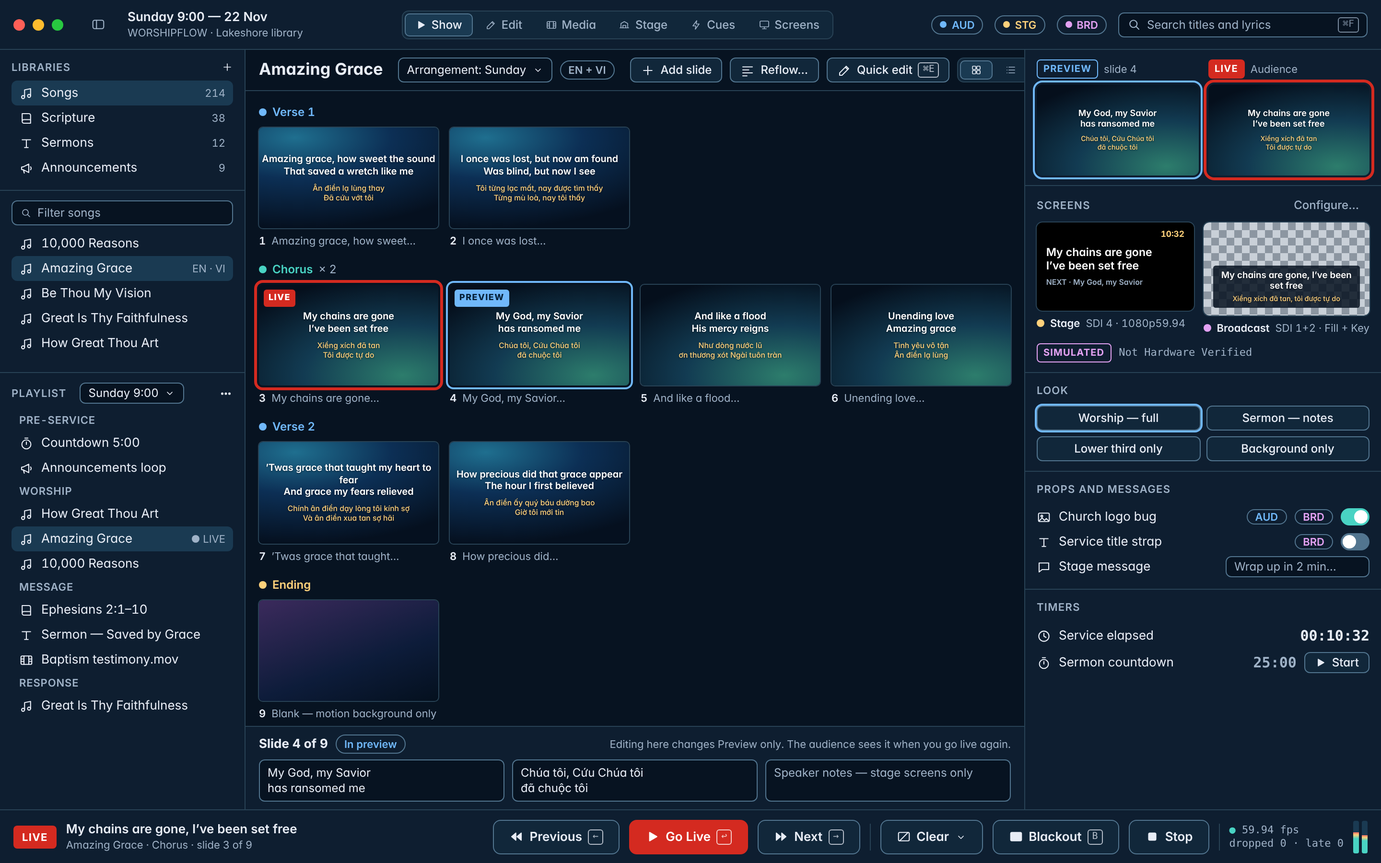
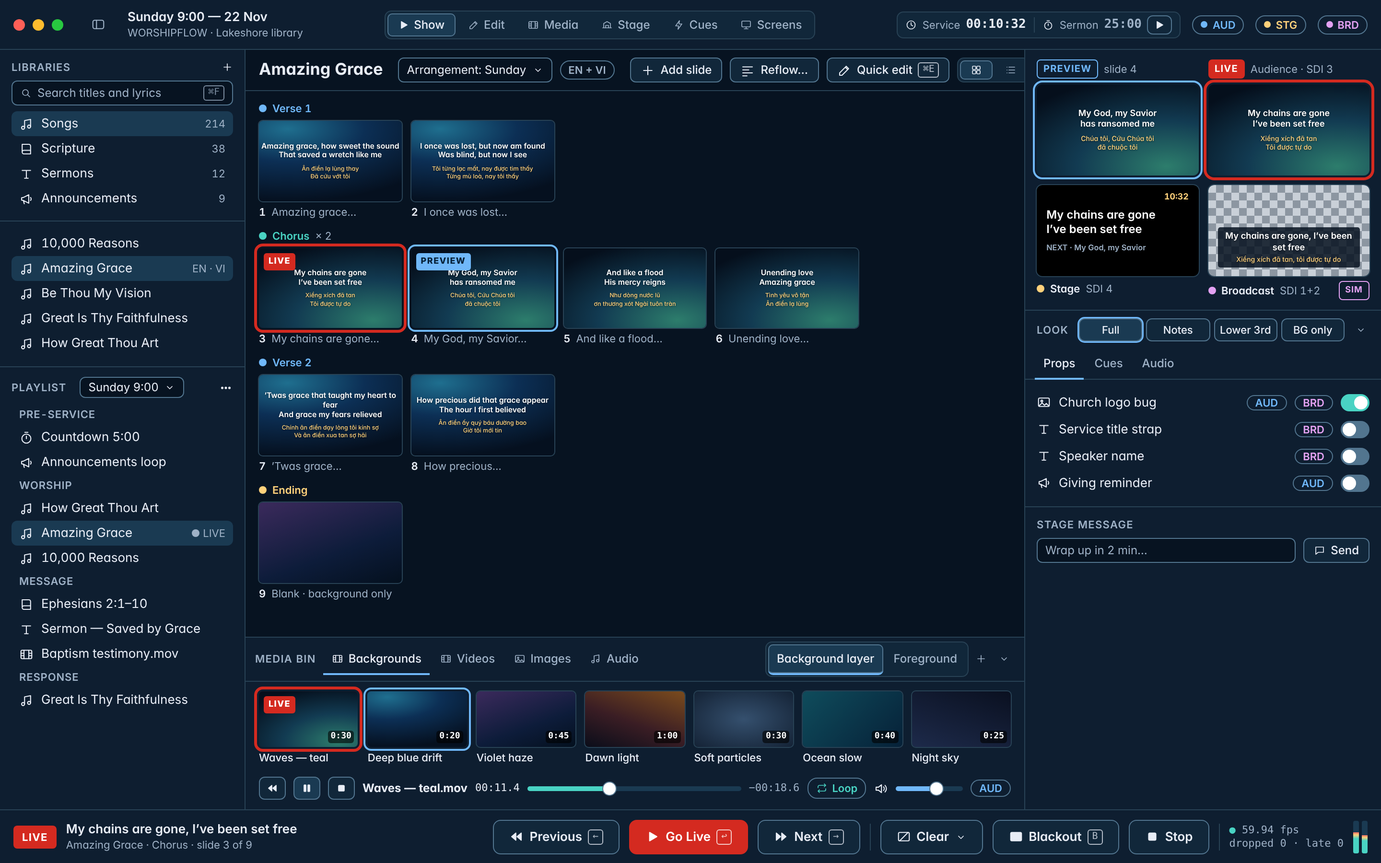
docs(UI): design revision 2 from the design session: media dock and controller in Show, search in the sidebar, timers in the toolbar, tabbed inspector, quick edit tab, stage message

diff --git a/docs/UI/mockups/01-operator-show.html b/docs/UI/mockups/01-operator-show.html
@@ -1,19 +1,39 @@
 <!doctype html><meta charset="utf-8"><title>WORSHIPFLOW — Show</title><link rel="stylesheet" href="ui.css"><script src="ui.js"></script>
 <style>.body{display:grid;grid-template-columns:256px 1fr 372px;min-height:0}
-.grid{display:grid;grid-template-columns:repeat(4,1fr);gap:14px 12px}
-.sl{font-size:12px;font-weight:600;display:flex;align-items:center;gap:6px;margin:14px 0 8px}.sl:first-child{margin-top:0}
+.grid{display:grid;grid-template-columns:repeat(5,1fr);gap:0 10px}
+.sl{font-size:11px;font-weight:600;display:flex;align-items:center;gap:6px;margin:0 0 5px}.grid+.sl{margin-top:9px}
 .mon .thumb{border-radius:6px}.mh{display:flex;align-items:center;gap:6px;margin-bottom:6px}
-.look{display:grid;grid-template-columns:1fr 1fr;gap:6px}.look .btn{justify-content:center}
+.dock{border-top:1px solid var(--border);background:var(--surface)}.mrow{display:grid;grid-template-columns:repeat(7,1fr);gap:10px;padding:10px 14px 6px}
+.m{background-size:cover}.dur{position:absolute;right:4px;bottom:4px;font:600 9px/13px "SF Mono",ui-monospace,monospace;background:rgba(0,0,0,.6);padding:0 3px;border-radius:3px}
+.scrub{height:5px;border-radius:3px;background:var(--surface-3);position:relative;flex:1}.scrub i{position:absolute;left:0;top:0;bottom:0;width:38%;background:var(--cyan);border-radius:3px}.scrub u{position:absolute;left:38%;top:-4px;width:13px;height:13px;border-radius:50%;background:#fff;margin-left:-6px;box-shadow:0 0 0 1px var(--border-strong)}
+.ctl{display:flex;align-items:center;gap:8px;padding:6px 14px 10px}.ib{height:24px;width:28px;padding:0;justify-content:center}
+.lk{display:flex;gap:4px}.lk .btn{flex:1;justify-content:center;padding:0 4px;height:24px;font-size:11px}
+.prow{display:flex;align-items:center;gap:8px;height:28px}
 </style><body><div class="win" id="w"></div><script>
+const ED=new URLSearchParams(location.search).get('edit')==='1';
+const G=['radial-gradient(110% 100% at 80% 90%,#2d7d6c,#123b52 50%,#050f1c)','radial-gradient(120% 90% at 20% 10%,#1f6f8f,#0c2f55 45%,#05101f)','linear-gradient(160deg,#3b2a5c,#0d1c3a 60%,#04101e)','linear-gradient(200deg,#7a4b1d,#3a1d24 55%,#0a0d1a)','radial-gradient(90% 90% at 50% 50%,#35506e,#0b1626)','linear-gradient(135deg,#0f4c5c,#062138)','linear-gradient(20deg,#1d2a4a,#0a1020)'];
 const sec=(c,n,r)=>`<div class="sl"><span class="dot" style="color:var(--${c})"></span><span style="color:var(--${c})">${n}</span><span class="c-muted" style="font-weight:400">${r||''}</span></div>`;
-const cell=(n,a,b,cls,tag,cap)=>`<div>${thumb(a,b,cls,tag)}<div class="cap"><b>${n}</b>${cap}</div></div>`;
+const cell=(n,a,b,cls,tag,cap)=>`<div>${thumb(a,b,cls,tag)}<div class="cap" style="margin-top:3px"><b>${n}</b>${cap}</div></div>`;
+const med=(n,d,g,cls='',tag='')=>`<div><div class="thumb m ${cls}" style="background:${G[g]}">${tag}${d?`<span class="dur">${d}</span>`:''}</div><div class="cap" style="margin-top:3px"><b style="overflow:hidden;text-overflow:ellipsis;font-weight:500">${n}</b></div></div>`;
 const LIVE='<span class="tag">LIVE</span>',PV='<span class="tag pv">PREVIEW</span>';
+const propsTab=`<div class="sec">
+  <div class="prow">${I('image')}Church logo bug<span class="grow"></span><span class="pill c-aud" style="height:16px">AUD</span><span class="pill c-brd" style="height:16px">BRD</span><span class="tgl on"></span></div>
+  <div class="prow">${I('text')}Service title strap<span class="grow"></span><span class="pill c-brd" style="height:16px">BRD</span><span class="tgl"></span></div>
+  <div class="prow">${I('text')}Speaker name<span class="grow"></span><span class="pill c-brd" style="height:16px">BRD</span><span class="tgl"></span></div>
+  <div class="prow">${I('mega')}Giving reminder<span class="grow"></span><span class="pill c-aud" style="height:16px">AUD</span><span class="tgl"></span></div></div>
+ <div class="sec grow"><div class="h" style="margin-bottom:6px">Stage message</div><div class="row"><span class="field ph grow">Wrap up in 2 min…</span><span class="btn">${I('msg','s')}Send</span></div></div>`;
+const editTab=`<div class="sec grow"><div class="row" style="margin-bottom:8px"><b>Slide 4 of 9</b><span class="c-muted" style="font-size:11px">Chorus</span><span class="grow"></span><span class="pill c-aud" style="height:18px">Preview only</span></div>
+  <div class="h" style="margin-bottom:4px">English</div><div class="field" style="height:46px;align-items:flex-start;padding-top:5px;border-color:var(--sel);box-shadow:0 0 0 2px color-mix(in srgb,var(--sel) 35%,transparent)">My God, my Savior<br>has ransomed me</div>
+  <div class="h" style="margin:8px 0 4px">Tiếng Việt</div><div class="field" style="height:46px;align-items:flex-start;padding-top:5px">Chúa tôi, Cứu Chúa tôi<br>đã chuộc tôi</div>
+  <div class="h" style="margin:8px 0 4px">Speaker notes · stage only</div><div class="field ph" style="height:30px">None</div>
+  <div class="row" style="margin-top:10px"><span class="c-muted" style="font-size:11px">Saved 2 s ago · live at next trigger</span><span class="grow"></span><span class="btn">Done <span class="kbd">esc</span></span></div></div>`;
 w.innerHTML=toolbar('Show')+`<div class="body">
 <div class="side">
  <div class="sec"><div class="row" style="margin-bottom:6px"><span class="h">Libraries</span><span class="grow"></span>${I('plus','s')}</div>
+  <div class="field ph" style="margin-bottom:6px">${I('search','s')}Search titles and lyrics<span class="car kbd">⌘F</span></div>
   <div class="li on">${I('music')}Songs<span class="n">214</span></div><div class="li">${I('book')}Scripture<span class="n">38</span></div>
   <div class="li">${I('text')}Sermons<span class="n">12</span></div><div class="li">${I('mega')}Announcements<span class="n">9</span></div></div>
- <div class="sec" style="flex:0 0 190px;overflow:hidden"><div class="field ph" style="margin-bottom:6px">${I('search','s')}Filter songs</div>
+ <div class="sec" style="flex:0 0 152px;overflow:hidden">
   <div class="li">${I('music')}10,000 Reasons</div><div class="li on">${I('music')}Amazing Grace<span class="n">EN · VI</span></div><div class="li">${I('music')}Be Thou My Vision</div><div class="li">${I('music')}Great Is Thy Faithfulness</div><div class="li">${I('music')}How Great Thou Art</div></div>
  <div class="sec grow"><div class="row" style="margin-bottom:6px"><span class="h">Playlist</span><span class="field" style="height:22px;margin-left:6px">Sunday 9:00 ${I('down','s')}</span><span class="grow"></span>${I('dots')}</div>
   <div class="li sub">Pre-service</div><div class="li">${I('timer')}Countdown 5:00</div><div class="li">${I('mega')}Announcements loop</div>
@@ -24,34 +44,32 @@ w.innerHTML=toolbar('Show')+`<div class="body">
 </div>
 <div class="main">
  <div class="bar"><span style="font-size:17px;font-weight:700;line-height:22px;white-space:nowrap">Amazing Grace</span><span class="field" style="margin-left:8px">Arrangement: Sunday ${I('down','s')}</span><span class="pill c-muted">EN + VI</span><span class="grow"></span>
-  <span class="btn">${I('plus')}Add slide</span><span class="btn">${I('reflow')}Reflow…</span><span class="btn">${I('edit')}Quick edit <span class="kbd">⌘E</span></span><div class="seg"><b class="on">${I('grid','s')}</b><b>${I('list','s')}</b></div></div>
- <div style="padding:14px;overflow:hidden;flex:1">
-  ${sec('verse','Verse 1')}<div class="grid">${cell(1,'Amazing grace, how sweet the sound<br>That saved a wretch like me','Ân điển lạ lùng thay<br>Đã cứu vớt tôi','bg1','','Amazing grace, how sweet…')}${cell(2,'I once was lost, but now am found<br>Was blind, but now I see','Tôi từng lạc mất, nay được tìm thấy<br>Từng mù loà, nay tôi thấy','bg1','','I once was lost…')}</div>
+  <span class="btn">${I('plus')}Add slide</span><span class="btn">${I('reflow')}Reflow…</span><span class="btn" ${ED?'style="box-shadow:0 0 0 2px var(--sel)"':''}>${I('edit')}Quick edit <span class="kbd">⌘E</span></span><div class="seg"><b class="on">${I('grid','s')}</b><b>${I('list','s')}</b></div></div>
+ <div style="padding:10px 14px;overflow:hidden;flex:1">
+  ${sec('verse','Verse 1')}<div class="grid">${cell(1,'Amazing grace, how sweet the sound<br>That saved a wretch like me','Ân điển lạ lùng thay<br>Đã cứu vớt tôi','bg1','','Amazing grace…')}${cell(2,'I once was lost, but now am found<br>Was blind, but now I see','Tôi từng lạc mất, nay được tìm thấy<br>Từng mù loà, nay tôi thấy','bg1','','I once was lost…')}</div>
   ${sec('chorus','Chorus','× 2')}<div class="grid">${cell(3,'My chains are gone<br>I’ve been set free','Xiềng xích đã tan<br>Tôi được tự do','bg2 live',LIVE,'My chains are gone…')}${cell(4,'My God, my Savior<br>has ransomed me','Chúa tôi, Cứu Chúa tôi<br>đã chuộc tôi','bg2 sel',PV,'My God, my Savior…')}${cell(5,'And like a flood<br>His mercy reigns','Như dòng nước lũ<br>ơn thương xót Ngài tuôn tràn','bg2','','And like a flood…')}${cell(6,'Unending love<br>Amazing grace','Tình yêu vô tận<br>Ân điển lạ lùng','bg2','','Unending love…')}</div>
-  ${sec('verse','Verse 2')}<div class="grid">${cell(7,'’Twas grace that taught my heart to fear<br>And grace my fears relieved','Chính ân điển dạy lòng tôi kính sợ<br>Và ân điển xua tan sợ hãi','bg1','','’Twas grace that taught…')}${cell(8,'How precious did that grace appear<br>The hour I first believed','Ân điển ấy quý báu dường bao<br>Giờ tôi mới tin','bg1','','How precious did…')}</div>
-  ${sec('bridge','Ending')}<div class="grid">${cell(9,'','','bg3','','Blank — motion background only')}</div>
+  ${sec('verse','Verse 2')}<div class="grid">${cell(7,'’Twas grace that taught my heart to fear<br>And grace my fears relieved','Chính ân điển dạy lòng tôi kính sợ<br>Và ân điển xua tan sợ hãi','bg1','','’Twas grace…')}${cell(8,'How precious did that grace appear<br>The hour I first believed','Ân điển ấy quý báu dường bao<br>Giờ tôi mới tin','bg1','','How precious…')}</div>
+  ${sec('bridge','Ending')}<div class="grid">${cell(9,'','','bg3','','Blank · background only')}</div>
  </div>
- <div style="border-top:1px solid var(--border);padding:8px 14px;background:var(--surface)"><div class="row" style="margin-bottom:6px"><b>Slide 4 of 9</b><span class="pill c-aud">In preview</span><span class="grow"></span><span class="c-muted" style="font-size:11px">Editing here changes Preview only. The audience sees it when you go live again.</span></div>
-  <div style="display:grid;grid-template-columns:1fr 1fr 1fr;gap:8px"><div class="field" style="height:44px;align-items:flex-start;padding-top:5px">My God, my Savior<br>has ransomed me</div><div class="field" style="height:44px;align-items:flex-start;padding-top:5px">Chúa tôi, Cứu Chúa tôi<br>đã chuộc tôi</div><div class="field ph" style="height:44px;align-items:flex-start;padding-top:5px">Speaker notes — stage screens only</div></div></div>
+ <div class="dock">
+  <div class="tabs" style="align-items:center"><span class="h" style="margin-right:6px">Media bin</span><b class="on">${I('film','s')}Backgrounds</b><b>${I('film','s')}Videos</b><b>${I('image','s')}Images</b><b>${I('music','s')}Audio</b><span class="grow"></span>
+   <div class="seg" style="margin:4px 0"><b class="on">Background layer</b><b>Foreground</b></div><span class="btn ghost" style="height:22px;padding:0 4px">${I('plus','s')}</span><span class="btn ghost" style="height:22px;padding:0 4px">${I('down','s')}</span></div>
+  <div class="mrow">${med('Waves — teal','0:30',0,'live',LIVE)}${med('Deep blue drift','0:20',1,'sel')}${med('Violet haze','0:45',2)}${med('Dawn light','1:00',3)}${med('Soft particles','0:30',4)}${med('Ocean slow','0:40',5)}${med('Night sky','0:25',6)}</div>
+  <div class="ctl"><span class="btn ib">${I('prev','s')}</span><span class="btn ib" style="background:var(--surface-3)">${I("pause","s")}</span><span class="btn ib">${I("stop",'s')}</span>
+   <b style="white-space:nowrap;font-size:12px">Waves — teal.mov</b><span class="mono">00:11.4</span><div class="scrub"><i></i><u></u></div><span class="mono c-muted">−00:18.6</span>
+   <span class="pill c-ok" style="height:22px">${I('loop','s')}Loop</span>${I('speaker')}<div class="scrub" style="flex:0 0 70px"><i style="width:60%;background:var(--blue)"></i><u style="left:60%"></u></div><span class="pill c-aud" style="height:18px">AUD</span></div>
+ </div>
 </div>
 <div class="side r">
- <div class="sec mon" style="display:grid;grid-template-columns:1fr 1fr;gap:10px">
+ <div class="sec mon" style="display:grid;grid-template-columns:minmax(0,1fr) minmax(0,1fr);gap:10px">
   <div><div class="mh"><span class="badge c-aud">Preview</span><span class="c-muted" style="font-size:11px">slide 4</span></div>${thumb('My God, my Savior<br>has ransomed me','Chúa tôi, Cứu Chúa tôi<br>đã chuộc tôi','bg2 sel')}</div>
-  <div><div class="mh"><span class="badge fill" style="background:var(--live-fill);color:#fff">Live</span><span class="c-muted" style="font-size:11px">Audience</span></div>${thumb('My chains are gone<br>I’ve been set free','Xiềng xích đã tan<br>Tôi được tự do','bg2 live')}</div></div>
- <div class="sec mon"><div class="row" style="margin-bottom:8px"><span class="h">Screens</span><span class="grow"></span><span class="btn ghost" style="height:20px">Configure…</span></div>
-  <div style="display:grid;grid-template-columns:1fr 1fr;gap:10px">
+  <div><div class="mh"><span class="badge fill" style="background:var(--live-fill);color:#fff">Live</span><span class="c-muted" style="font-size:11px">Audience · SDI 3</span></div>${thumb('My chains are gone<br>I’ve been set free','Xiềng xích đã tan<br>Tôi được tự do','bg2 live')}</div>
   <div><div class="thumb" style="align-items:flex-start;text-align:left;padding:6%"><div class="l1" style="font-size:8cqw">My chains are gone<br>I’ve been set free</div><div class="l1" style="font-size:5.5cqw;color:#9fb2c7;margin-top:4cqw">NEXT · My God, my Savior</div><div style="position:absolute;right:6%;top:6%;font-size:6cqw;font-weight:700;color:#ffd17b">10:32</div></div>
-   <div class="cap"><span class="dot c-stg"></span><b>Stage</b>SDI 4 · 1080p59.94</div></div>
+   <div class="cap"><span class="dot c-stg"></span><b>Stage</b>SDI 4</div></div>
   <div><div class="thumb checker" style="justify-content:flex-end;padding-bottom:5%"><div style="background:rgba(7,19,33,.86);width:88%;border-radius:1.5cqw;padding:2.5cqw"><div class="l1" style="font-size:5.4cqw">My chains are gone, I’ve been set free</div><div class="l2" style="margin-top:1cqw;font-size:4.2cqw">Xiềng xích đã tan, tôi được tự do</div></div></div>
-   <div class="cap"><span class="dot c-brd"></span><b>Broadcast</b>SDI 1+2 · Fill + Key</div></div></div>
-  <div class="row mono c-muted" style="margin-top:8px"><span class="badge c-brd" style="font-family:Inter">Simulated</span>Not Hardware Verified</div></div>
- <div class="sec"><div class="h" style="margin-bottom:8px">Look</div><div class="look"><span class="btn" style="box-shadow:0 0 0 2px var(--sel)">Worship — full</span><span class="btn">Sermon — notes</span><span class="btn">Lower third only</span><span class="btn">Background only</span></div></div>
- <div class="sec"><div class="h" style="margin-bottom:8px">Props and messages</div>
-  <div class="row" style="height:26px">${I('image')}Church logo bug<span class="grow"></span><span class="pill c-aud" style="height:16px">AUD</span><span class="pill c-brd" style="height:16px">BRD</span><span class="tgl on"></span></div>
-  <div class="row" style="height:26px">${I('text')}Service title strap<span class="grow"></span><span class="pill c-brd" style="height:16px">BRD</span><span class="tgl"></span></div>
-  <div class="row" style="height:26px">${I('msg')}Stage message<span class="grow"></span><span class="field ph" style="width:150px;height:22px">Wrap up in 2 min…</span></div></div>
- <div class="sec grow"><div class="h" style="margin-bottom:8px">Timers</div>
-  <div class="row" style="height:28px">${I('clock')}Service elapsed<span class="grow"></span><b class="mono" style="font-size:15px">00:10:32</b></div>
-  <div class="row" style="height:28px">${I('timer')}Sermon countdown<span class="grow"></span><b class="mono c-muted" style="font-size:15px">25:00</b><span class="btn" style="height:22px">${I('play','s')}Start</span></div></div>
+   <div class="cap"><span class="dot c-brd"></span><b>Broadcast</b>SDI 1+2<span class="grow"></span><span class="badge c-brd" style="font-size:9px">Sim</span></div></div></div>
+ <div class="sec" style="padding-top:8px;padding-bottom:8px"><div class="row"><span class="h" style="width:36px">Look</span><div class="lk grow"><span class="btn" style="background:var(--surface-3);box-shadow:0 0 0 1.5px var(--sel)">Full</span><span class="btn">Notes</span><span class="btn">Lower 3rd</span><span class="btn">BG only</span></div><span class="btn ghost" style="height:24px;padding:0 2px">${I('down','s')}</span></div></div>
+ <div class="tabs"><b class="${ED?'':'on'}">Props</b><b>Cues</b><b>Audio</b><b class="${ED?'on':''}" style="${ED?'':'display:none'}">${I('edit','s')}Quick edit<span class="dot c-aud" style="width:6px;height:6px"></span></b></div>
+ ${ED?editTab:propsTab}
 </div></div>`+transport();
 </script></body>

diff --git a/docs/UI/mockups/ui.js b/docs/UI/mockups/ui.js
@@ -1,4 +1,4 @@
-const P={sidebar:'<rect x="3" y="5" width="18" height="14" rx="3"/><path d="M9 5v14"/>',search:'<circle cx="11" cy="11" r="6"/><path d="m20 20-4.5-4.5"/>',plus:'<path d="M12 5v14M5 12h14"/>',
+const P={pause:'<rect x="6" y="5" width="4" height="14" rx="1" fill="currentColor"/><rect x="14" y="5" width="4" height="14" rx="1" fill="currentColor"/>',sidebar:'<rect x="3" y="5" width="18" height="14" rx="3"/><path d="M9 5v14"/>',search:'<circle cx="11" cy="11" r="6"/><path d="m20 20-4.5-4.5"/>',plus:'<path d="M12 5v14M5 12h14"/>',
 play:'<path d="M7 5v14l12-7z" fill="currentColor"/>',prev:'<path d="M11 6 4 12l7 6zM20 6l-7 6 7 6z" fill="currentColor"/>',next:'<path d="m13 6 7 6-7 6zM4 6l7 6-7 6z" fill="currentColor"/>',
 stop:'<rect x="6" y="6" width="12" height="12" rx="2" fill="currentColor"/>',clear:'<rect x="3" y="5" width="18" height="14" rx="2"/><path d="m5 19 14-14"/>',edit:'<path d="M4 20h4L19 9l-4-4L4 16zM13.5 6.5l4 4"/>',
 music:'<path d="M9 18V6l10-2v12"/><circle cx="6.5" cy="18" r="2.5"/><circle cx="16.5" cy="16" r="2.5"/>',book:'<path d="M5 4h11a3 3 0 0 1 3 3v13H8a3 3 0 0 1-3-3zM5 17a3 3 0 0 1 3-3h11"/>',
@@ -19,8 +19,8 @@ const MODES=[['Show','play'],['Edit','edit'],['Media','film'],['Stage','stage'],
 const toolbar=(mode,extra='')=>`<div class="tb"><div class="lights"><i></i><i></i><i></i></div><span class="btn ghost">${I('sidebar')}</span>
 <div class="col"><span class="title">Sunday 9:00 — 22 Nov</span><span class="sub">WORSHIPFLOW · Lakeshore library</span></div><div class="grow"></div>
 <div class="seg">${MODES.map(m=>`<b class="${m[0]==mode?'on':''}">${I(m[1],'s')}${m[0]}</b>`).join('')}</div><div class="grow"></div>${extra}
-<span class="pill c-aud"><span class="d"></span>AUD</span><span class="pill c-stg"><span class="d"></span>STG</span><span class="pill c-brd"><span class="d"></span>BRD</span>
-<div class="field ph search">${I('search')}Search titles and lyrics<span class="car kbd">⌘F</span></div></div>`;
+<div class="tm">${I('clock','s')}<span class="c-muted">Service</span><b class="mono">00:10:32</b><span class="sep"></span>${I('timer','s')}<span class="c-muted">Sermon</span><b class="mono c-muted">25:00</b><span class="btn" style="height:20px;padding:0 6px">${I('play','s')}</span></div>
+<span class="pill c-aud"><span class="d"></span>AUD</span><span class="pill c-stg"><span class="d"></span>STG</span><span class="pill c-brd"><span class="d"></span>BRD</span></div>`;
 const transport=(state='live')=>`<div class="tp">
 <span class="badge fill" style="background:var(--live-fill);color:#fff;font-size:11px;padding:3px 8px">LIVE</span>
 <div class="col" style="min-width:0"><span style="font-weight:600;white-space:nowrap">My chains are gone, I’ve been set free</span><span class="sub c-muted" style="font-size:11px">Amazing Grace · Chorus · slide 3 of 9</span></div><div class="grow"></div>

diff --git a/docs/UI/mockups/ui.css b/docs/UI/mockups/ui.css
@@ -66,3 +66,5 @@ svg.i.s{width:12px;height:12px}svg.i.l{width:20px;height:20px}
 .chk{width:14px;height:14px;border-radius:3px;border:1px solid var(--border-strong);flex:none;display:grid;place-items:center}.chk.on{background:var(--blue);border-color:var(--blue);color:var(--on-brand)}body.light .chk.on{color:#fff}
 label.k{color:var(--muted);font-size:12px;width:96px;text-align:right;flex:none}
 .meter{width:6px;border-radius:2px;background:var(--surface-3);position:relative;overflow:hidden}.meter i{position:absolute;left:0;right:0;bottom:0;background:linear-gradient(0deg,var(--cyan) 70%,var(--warning) 88%,var(--live))}
+.tm{display:flex;align-items:center;gap:6px;height:28px;padding:0 8px;border-radius:7px;background:var(--surface-2);border:1px solid var(--border);font-size:11px;white-space:nowrap}.tm b{font-size:13px}.tm .sep{width:1px;height:16px;background:var(--border);margin:0 2px}
+.tabs{display:flex;gap:2px;border-bottom:1px solid var(--border);padding:0 10px}.tabs b{font-size:12px;font-weight:500;color:var(--muted);padding:7px 9px;border-bottom:2px solid transparent;margin-bottom:-1px;display:flex;gap:5px;align-items:center;white-space:nowrap}.tabs b.on{color:var(--text);border-bottom-color:var(--sel)}

diff --git a/docs/UI/README.md b/docs/UI/README.md
@@ -57,21 +57,35 @@ One window, sized for 1440 × 900 pt minimum comfortable, 1100 × 640 pt hard mi
 
 | Region | Size | Contents |
 |---|---|---|
-| Toolbar | 52 pt | Sidebar toggle, service title, **mode switcher**, output chips, search (⌘F) |
-| Sidebar | 256 pt (240–380) | Libraries, library items, playlist |
-| Centre | flexible, ≥ 460 pt | The mode's main surface |
-| Inspector | 372 pt (320–440) | Preview and Live monitors, screens, Look, props, timers — or the mode's inspector |
+| Toolbar | 52 pt | Sidebar toggle, service title, **mode switcher**, timers, output chips |
+| Sidebar | 256 pt (240–380) | Search, libraries, library items, playlist |
+| Centre | flexible, ≥ 460 pt | The mode's main surface; in Show, the slide grid over the media bin dock |
+| Inspector | 372 pt (320–440) | Preview and Live monitors, screens, Look, then tabs (Props, Cues, Audio, Quick edit) — or the mode's inspector |
 | Transport bar | 56 pt | Live state and current line, Previous / Go Live / Next, Clear, Blackout, Stop, frame health, audio meters |
 
 The mode switcher is a segmented control with six modes. **Show**, **Media** and **Cues** keep the transport bar; **Edit**, **Stage** and **Screens** are preparation modes and drop it to give the canvas room, but the toolbar chips still show what is live.
 
 ## Screens
 
-### 1. Show — operator workspace (`OUT-004`, `LIB`, `CUE`)
+### 1. Show — operator workspace (`OUT-004`, `LIB`, `MEDIA`, `CUE`)
 
 ![Show](screens/01-operator-show.png)
 
-The existing workspace, reorganised. Slides are grouped by section with coloured labels; the playlist gains headers (Pre-service, Worship, Message, Response). Preview and Live sit side by side at the top of the inspector so the operator compares them at a glance, with Stage and Broadcast thumbnails beneath. Looks are four large buttons, not a pop-up. The quick-edit strip under the grid states plainly that it edits Preview only.
+Everything the operator changes during a service is on this one screen.
+
+- **Sidebar.** One search field at the top of Libraries searches titles and lyrics (⌘F) and filters the list beneath it; there is no separate search in the toolbar.
+- **Slides.** Five across, grouped by section with coloured labels.
+- **Media bin dock.** Under the slide grid: tabs for Backgrounds, Videos, Images and Audio, a strip of thumbnails with the same Preview and Live rings as slides, and a choice of background or foreground layer. Clicking a tile changes the media without leaving Show. The dock can be collapsed with the chevron.
+- **Media controller.** The row under the thumbnails drives whatever clip is running: restart, pause, stop, elapsed and remaining time, scrubber, loop, volume, and the screens it is on. It appears only while a video or audio file is loaded.
+- **Monitors.** Preview and Live side by side, Stage and Broadcast beneath, each captioned with its connector.
+- **Look.** One compact row of short buttons (Full, Notes, Lower 3rd, BG only) with a chevron for the rest.
+- **Tabs.** Props, Cues and Audio share the lower part of the right-hand column, so it can grow without crowding.
+- **Timers.** Service elapsed and the sermon countdown sit in the toolbar beside the AUD, STG and BRD chips, visible in every mode.
+- **Screen configuration** is not on this screen; it lives in the Screens tab of the mode switcher.
+
+![Quick edit](screens/01b-operator-show-quick-edit.png)
+
+**Quick edit** (⌘E) adds a fourth tab on the right with only the current slide's two languages and notes, a small "Preview only" chip, and Done (esc). The tab is absent when nothing is being edited.
 
 Light theme: `screens/09-operator-show-light.png`.
 
@@ -99,7 +113,7 @@ Layouts on the left, a 1080p canvas with labelled elements (current, next, clock
 
 ![Media](screens/05-media-audio.png)
 
-Media bin grid with kind and duration on each tile, the same Preview/Live rings as slides, a transport strip with in/out and markers, and an audio panel with cue player, routing matrix, device choice and levels. Offline media is called out in the sidebar with a Locate action.
+The full library view of what the Show dock offers: media bin grid with kind and duration on each tile, the same Preview/Live rings as slides, a transport strip with in/out and markers, and an audio panel with cue player, routing matrix, device choice and levels. Offline media is called out in the sidebar with a Locate action.
 
 ### 6. Cues — macros, slide actions, control inputs (`CUE`)
 
@@ -181,6 +195,7 @@ SF Symbols in the app; the mockups use simple line stand-ins. Suggested symbols 
 ## Building it in SwiftUI
 
 - Put the colours in the asset catalog as named colour sets with Any/Dark appearances (`Color("surface")`), not as literals. Output colours (`canvas`, `lyric-ink`, `lyric-ink-2`, `plate`) are render-engine constants and do not follow the operator's appearance.
+- The media bin dock is a `VSplitView` pane under the slide grid, reusing `MediaBinPanel` and `MediaTransportStrip`; remember its height and collapsed state in settings.
 - Mode switcher: `Picker` with `.segmented` in a `ToolbarItem(placement: .principal)`. Sidebar and inspector: the existing `NavigationSplitView` plus `.inspector`, or keep `HSplitView`.
 - Use regular control size for everything except the transport bar (`.controlSize(.large)`). The Go Live button is `.borderedProminent` tinted `live-fill`.
 - Thumbnail rings are overlays outside the image (2 pt offset) so they never cover lyric text.
